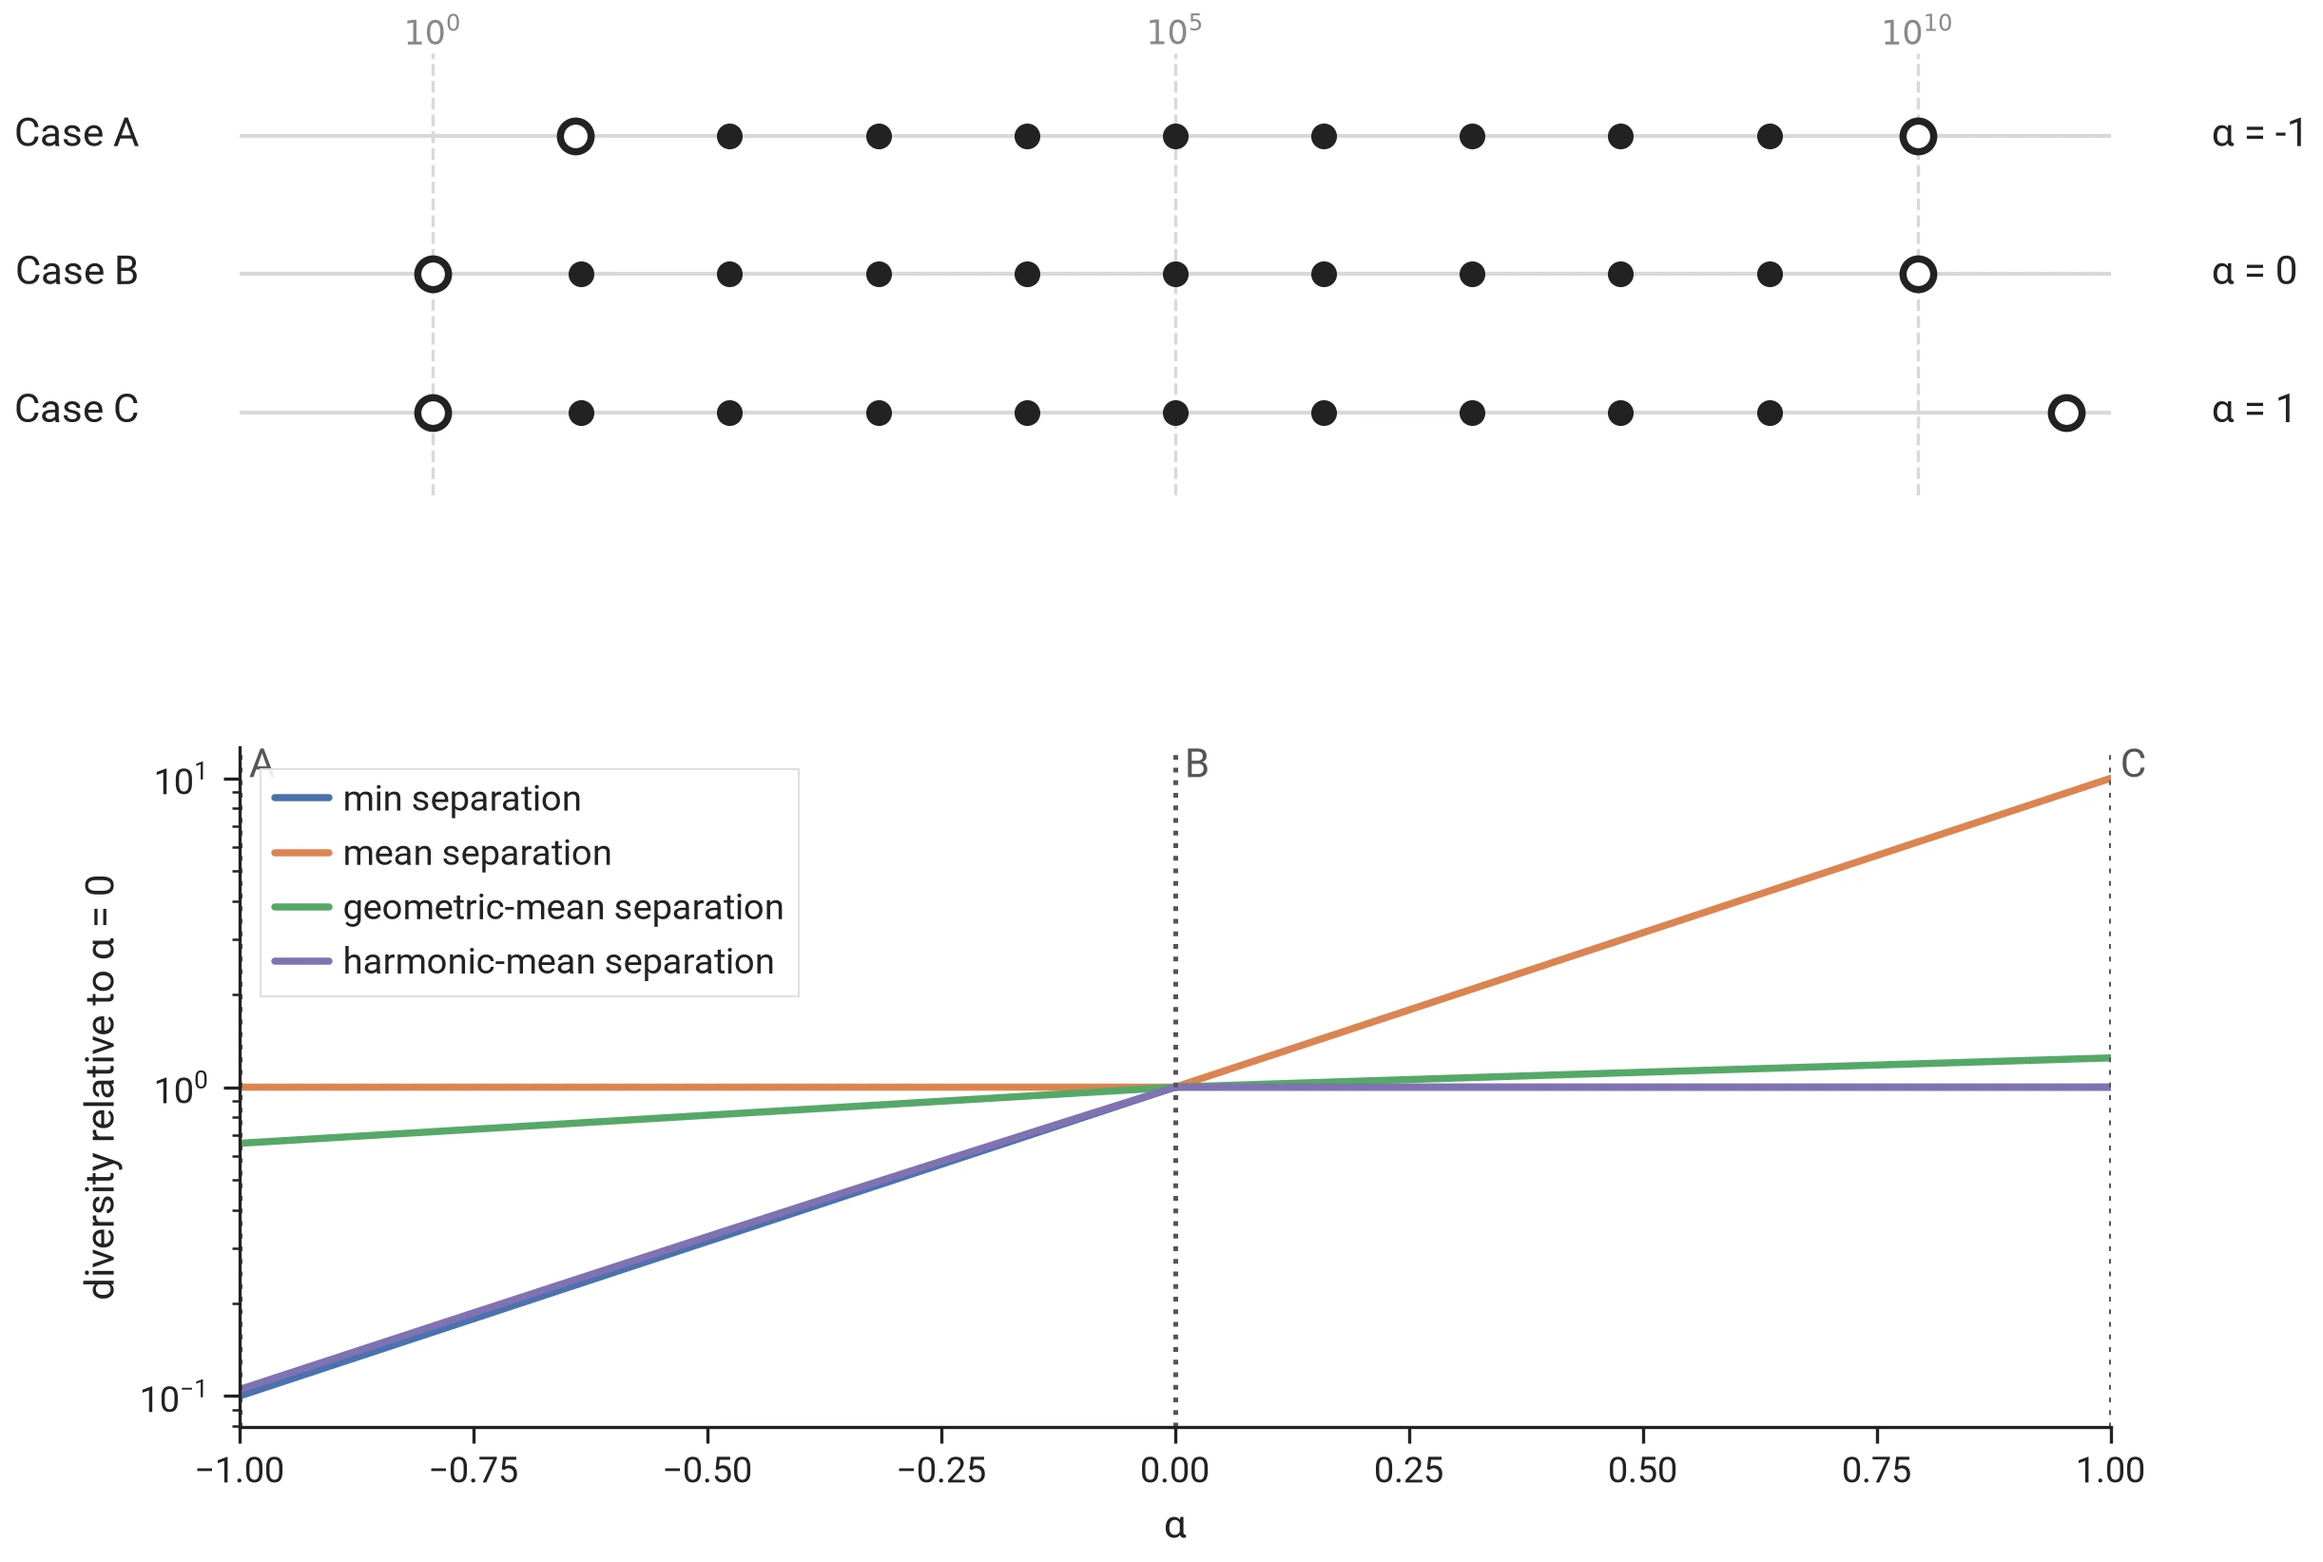
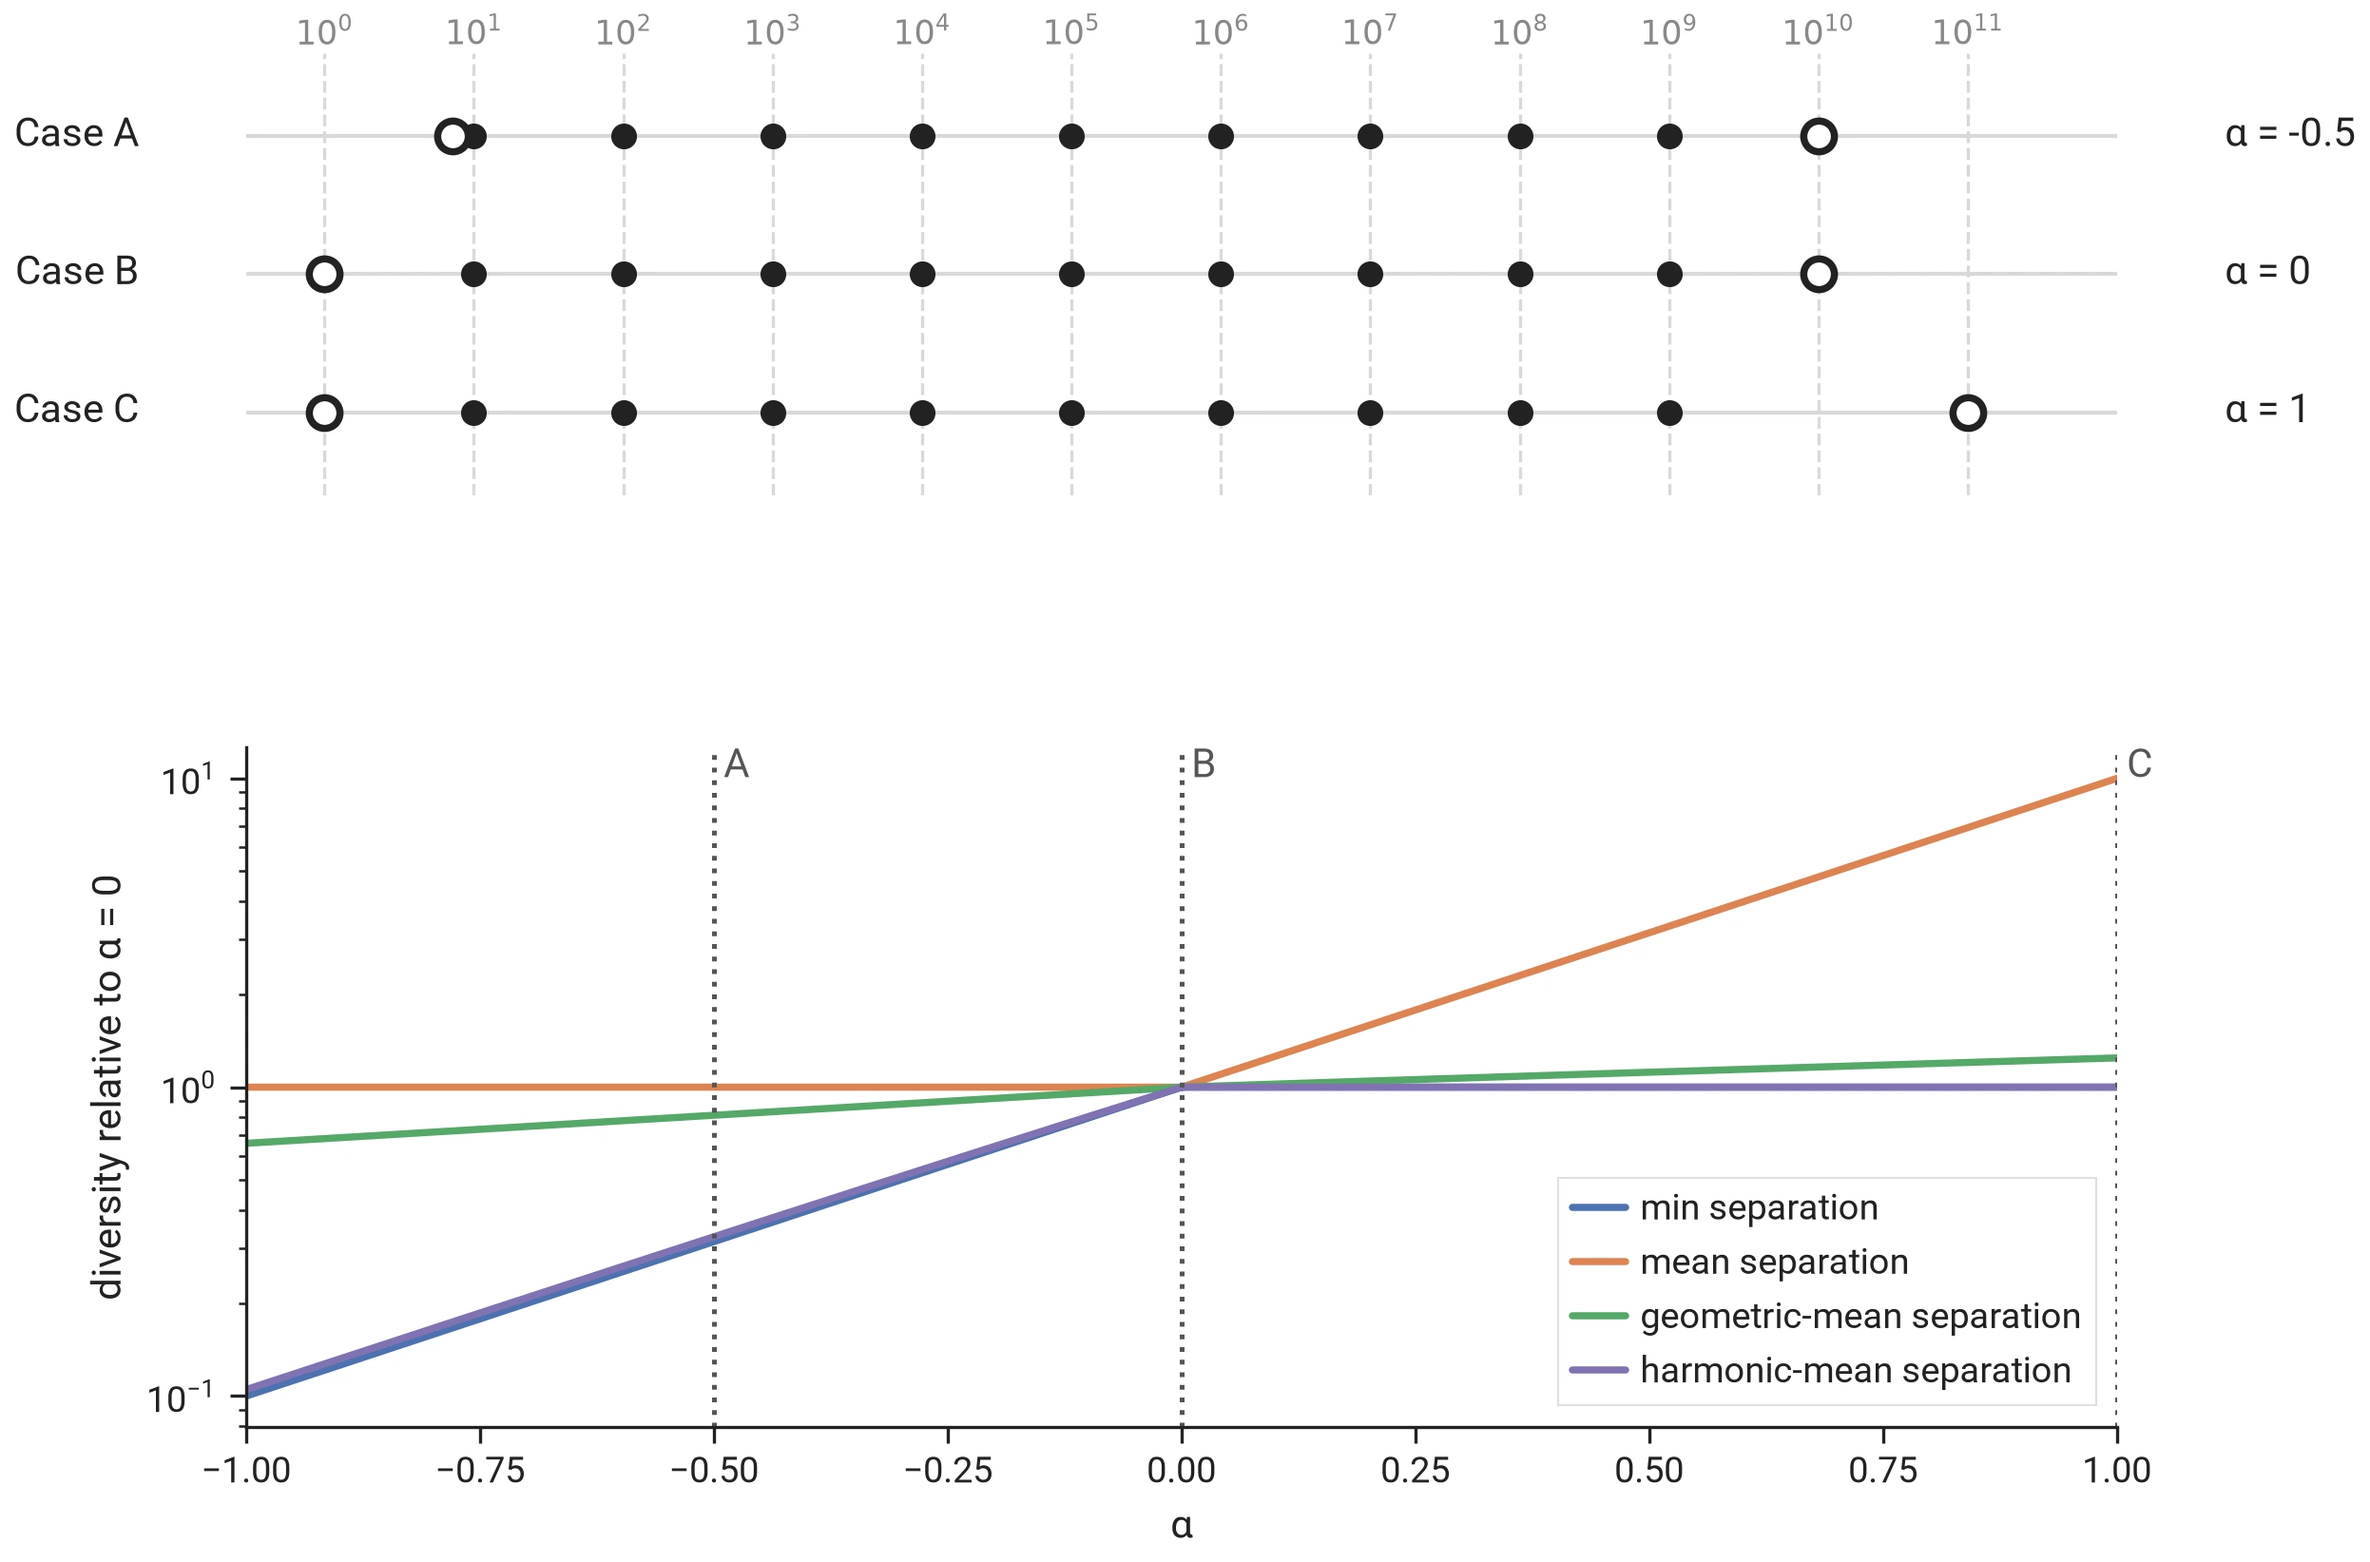
docs: position the harmonic mean against the geomean on the guide
Section I.4 shows on a logarithmic example that only the geomean reacts to a change of the smallest and of the largest separation; I.5 tabulates the timing benchmark; section II names both means as suitable for constrained problems and gives the orders-of-magnitude behavior as the reason the geomean stays the default.

diff --git a/scripts/generate_guide_images.py b/scripts/generate_guide_images.py
@@ -418,12 +418,12 @@ def main() -> None:
     render_example(
         "geomean_separation_I4",
         layout_decades,
-        case_alphas=(-1.0, 0.0, 1.0),
+        case_alphas=(-0.5, 0.0, 1.0),
         alpha_range=(-1.0, 1.0),
-        axis_range=(0.05, 2e11),
-        legend={"loc": "upper left"},
+        axis_range=(0.3, 1e12),
+        legend={"loc": "lower right"},
         highlight=(0, 10),
-        position_marks=(1.0, 1e5, 1e10),
+        position_marks=tuple(10.0**n for n in range(12)),
         log_scale=True,
     )
     render_example(

diff --git a/docs/guides/geomean_separation.md b/docs/guides/geomean_separation.md
@@ -11,7 +11,7 @@
 | Strongly penalizes near-duplicate items (I.2) | ✅ | ❌ | ✅ | ✅ |
 | Steers towards uniform spacing, at any k (I.3) | ✅ | ❌ | ✅ | ✅ |
 | Reacts to separations of every order of magnitude (I.4) | ❌ | ❌ | ✅ | ❌ |
-| Cheap to compute (I.5) | ✅ | ✅ | ❌ | ✅ |
+| Cheap to compute (I.5) | ~ | ✅ | ❌ | ✅ |
 
 ### I.1. Minimum separation only measures the closest item pair
 
@@ -61,13 +61,22 @@ Each metric that is not the geometric mean is blind on one side:
 - **min separation** and **harmonic-mean separation** follow the smallest separation and do not react when the largest one grows tenfold: the harmonic mean is the count over the sum of reciprocals, and the smallest separations own that sum;
 - **geometric-mean separation** reacts on both sides, because a tenfold change of any one separation moves the mean of the logarithms by the same amount whichever separation it is.
 
-> When separations span orders of magnitude, as constraints often induce (section II), only the geometric mean keeps an incentive on every part of the selection. The harmonic mean shares the geometric mean's other strengths, but here it behaves like the minimum.
+> When separations span orders of magnitude, as constraints can induce (section II), only the geometric mean keeps an incentive on every part of the selection. The harmonic mean shares the geometric mean's other strengths, but here it behaves like the minimum.
 
 ### I.5. Computational cost
 
-The [diversity-metric timing benchmark](../benchmarks/internal/bm_diversity_metrics.md) times each metric on one separation vector. The minimum, the arithmetic mean and the harmonic mean cost about the same at every size: a comparison, an addition or a division per item. The geometric mean takes a logarithm per item, which costs about 3× as much at $k = 100$ and about 11× at $k = 1{,}000$; its approximation, `APPROX_GEOMEAN_SEPARATION`, cuts that to about 1.3× and 2.5×. The metric is evaluated once per solver iteration, so the difference matters most at large $k$.
+The [diversity-metric timing benchmark](../benchmarks/internal/bm_diversity_metrics.md) times each metric on one separation vector; the geometric mean of its timings over sizes 10 to 20,000:
 
-## II. Geometric-mean separation & constrained problems
+| metric | time per evaluation | relative | considered fast |
+|---|---|---|:---:|
+| mean separation | 0.20 µs | 1.0× | ✅ |
+| harmonic-mean separation | 0.23 µs | 1.1× | ✅ |
+| min separation | 0.58 µs | 2.9× | ~ |
+| geometric-mean separation | 1.45 µs | 7.2× | ❌ |
+
+Min separation is slower than its simplicity suggests: taking a minimum is an implicitly conditional operation, which is harder to vectorize than a sum.
+
+## II. Diversity metrics & constrained problems
 
 All these properties come together when dealing with constrained problems, of which the following illustration is a minimal example.
 
@@ -82,4 +91,4 @@ At $\alpha = 0$ the free items are uniformly spaced; a positive $\alpha$ crowds 
 
 ![Fifty-one items: 26 forced between −0.25 and 0, 25 free between 0 and 1; the four metrics against α](./images/geomean_separation_II.webp)
 
-> In constrained problems, where constraints can create regions with different item densities, geometric-mean separation still provides an incentive to drive the solution to uniform distributions within each region, leading to natural looking solutions that align well with expectations.
+> In constrained problems, where constraints can create regions with different item densities, both geometric-mean and harmonic-mean separation keep an incentive to drive the solution to uniform distributions within each region, leading to natural looking solutions that align well with expectations. Geometric-mean separation is the default because it also copes with separations of different orders of magnitude (I.4): it behaves as one would intuitively expect under a wider range of conditions.

diff --git a/CHANGELOG.md b/CHANGELOG.md
@@ -16,6 +16,7 @@ and this project adheres to [Semantic Versioning](https://semver.org/spec/v2.0.0
 ### Changed
 - `DistanceStorage` is renamed to `DistanceStorageType`; `with_distance_storage` keeps its name
 - `MaxDivSolution.distance_storage` reports the resolved storage type per distance store, and the solution summary lists the stores grouped by type (e.g. `storage=full_matrix (L1, L2), lazy (geomean)`)
+- The guide on why geometric-mean separation is the default compares it with the harmonic mean as well, and adds how each metric reacts to separations of different orders of magnitude and what each costs to compute
 - Default tie-breakers follow the primary metric's terms: a hybrid without a min-separation term keeps only the non-zero-separation fraction, and the harmonic-mean separation gets the same tie-breaker as the geometric mean
 
 ### Deprecated
